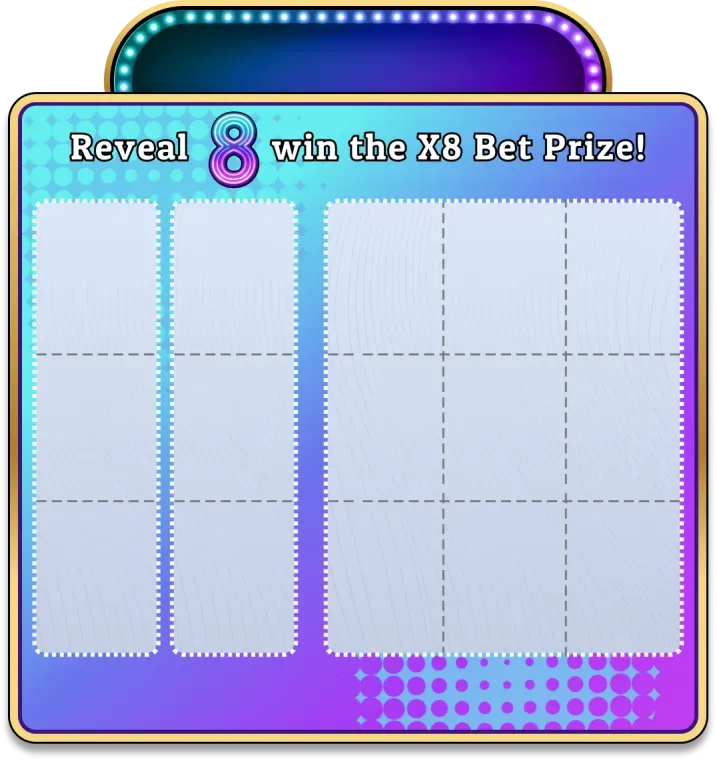
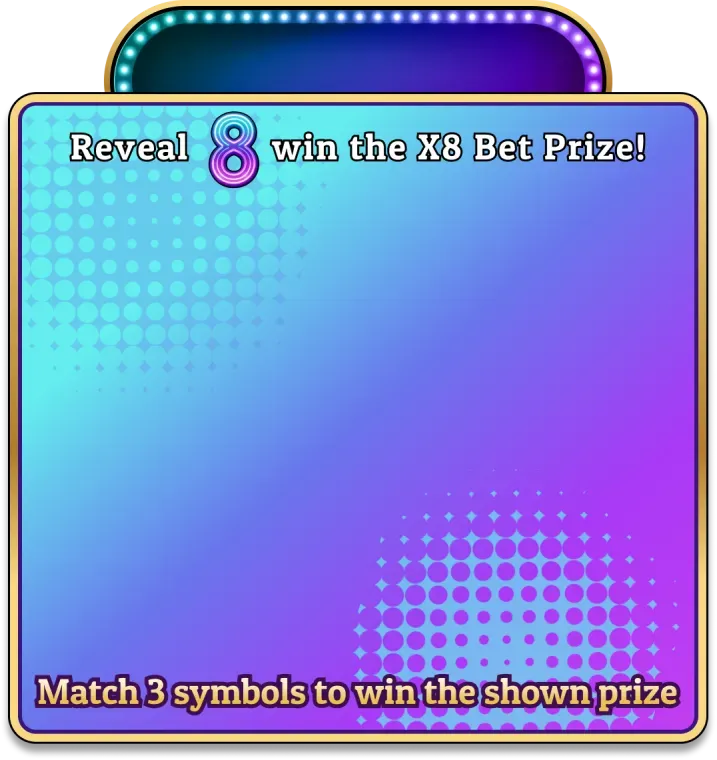
1

diff --git a/scratch144_aaa_dmwodkpw/lib/scratch144_aaa_view_djwijofw/scratch144_play_view_fkoekfeop/scratch144_lucky_play_view_fjwifjoejf.dart b/scratch144_aaa_dmwodkpw/lib/scratch144_aaa_view_djwijofw/scratch144_play_view_fkoekfeop/scratch144_lucky_play_view_fjwifjoejf.dart
@@ -28,10 +28,16 @@ class Scratch144LuckyPlayViewFjwifjoejf extends Scratch144StatefulWidgetJmndjv{
 class _Scratch144LuckyPlayViewFjwifjoejfState extends Scratch144Statemubfka<Scratch144LuckyPlayViewFjwifjoejf>{
   final Scratch144CardTypeEnumDwidjow type=Scratch144CardTypeEnumDwidjow.luckyRich;
   final Scratch144ScratchCardControllerPwsltd controller = Scratch144ScratchCardControllerPwsltd();
+  final Random _scratch144_random_qhvpxt = Random();
   var showResult=false;
   List<Scratch144AaaRewardBeanFeifjoe> rewardList1=[];
   List<Scratch144AaaRewardBeanFeifjoe> rewardList2=[];
   List<Scratch144AaaRewardBeanFeifjoe> rewardList3=[];
+  List<Scratch144AaaRewardBeanFeifjoe> get rewardList => <Scratch144AaaRewardBeanFeifjoe>[
+    ...rewardList1,
+    ...rewardList2,
+    ...rewardList3,
+  ];
   final String _lucky8="lucky12";
   final List<String> _iconList=["lucky4","lucky5","lucky6","lucky7","lucky8","lucky9","lucky10","lucky11",];
   final ValueNotifier<Offset> scratch144_aaa_card_offset_hqzpmr = ValueNotifier<Offset>(Offset.zero);
@@ -51,12 +57,16 @@ class _Scratch144LuckyPlayViewFjwifjoejfState extends Scratch144Statemubfka<Scra
       alignment: Alignment.topCenter,
       children: [
         Scratch144LocalImagesWidgetGohzrl(scratch144Nametrrwib: "lucky1", scratch144Widthcpygxw: null, scratch144Heightvnnnnq: 110.h,boxFit: BoxFit.fitHeight,),
-        _playWidget(),
+        _playWidget(context),
+        Container(
+          margin: EdgeInsets.only(top: 110.h),
+          child: Scratch144AaaWinUpViewFjweiofjoe(type: type),
+        ),
       ],
     ),
   );
 
-  _playWidget()=>Container(
+  _playWidget(BuildContext context)=>Container(
     margin: EdgeInsets.only(top: 100.h),
     child: ValueListenableBuilder<Duration>(
       valueListenable: scratch144_aaa_card_anim_duration_mpwzqy,
@@ -76,7 +86,7 @@ class _Scratch144LuckyPlayViewFjwifjoejfState extends Scratch144Statemubfka<Scra
               child: Scratch144ScratchCardWidgetPwsltd(
                 scratch144_width_qwntvi: double.infinity,
                 scratch144_height_eujpfh: 358.h,
-                scratch144_bottom_widget_fhpgka: _bottomWidget(),
+                scratch144_bottom_widget_fhpgka: _bottomWidget(context),
                 scratch144_cover_image_vlywop: AssetImage("assets/scratch144bsbzmv/lucky2.webp",),
                 scratch144_cover_fit_uqvmxp: BoxFit.fill,
                 scratch144_controller_ptjlwm: controller,
@@ -95,26 +105,79 @@ class _Scratch144LuckyPlayViewFjwifjoejfState extends Scratch144Statemubfka<Scra
     ),
   );
 
-  _bottomWidget()=>SizedBox(
+  _bottomWidget(BuildContext context)=>SizedBox(
     width: double.infinity,
     height: 358.h,
     child: Stack(
-      alignment: Alignment.topCenter,
+      alignment: Alignment.bottomCenter,
       children: [
         Scratch144LocalImagesWidgetGohzrl(scratch144Nametrrwib: "lucky3", scratch144Widthcpygxw: double.infinity, scratch144Heightvnnnnq: double.infinity),
         Container(
           width: double.infinity,
-          height: 201.h,
-          margin: EdgeInsets.only(left: 21.w,right: 21.w,top: 20.h),
-          child: MasonryGridView.count(
-            padding: const EdgeInsets.all(0),
-            itemCount: rewardList.length,
-            shrinkWrap: true,
-            crossAxisCount: 4,
-            mainAxisSpacing: 0,
-            crossAxisSpacing: 0,
-            physics: NeverScrollableScrollPhysics(),
-            itemBuilder: (context,index)=>_itemItemWidget(rewardList[index]),
+          height: 215.h,
+          margin: EdgeInsets.only(left: 16.w,right: 16.w,bottom: 50.h),
+          child: Row(
+            children: [
+              SizedBox(
+                width: 60.w,
+                height: double.infinity,
+                child: Stack(
+                  children: [
+                    Scratch144LocalImagesWidgetGohzrl(scratch144Nametrrwib: "lucky13", scratch144Widthcpygxw: double.infinity, scratch144Heightvnnnnq: double.infinity),
+                    MediaQuery.removePadding(
+                      context: context,
+                      removeTop: true,
+                      removeBottom: true,
+                      child: ListView.builder(
+                        shrinkWrap: true,
+                        itemCount: rewardList1.length,
+                        physics: NeverScrollableScrollPhysics(),
+                        itemBuilder: (context,index)=>_itemItemWidget(rewardList1[index]),
+                      ),
+                    ),
+                  ],
+                ),
+              ),
+              SizedBox(width: 6.w,),
+              SizedBox(
+                width: 60.w,
+                height: double.infinity,
+                child: Stack(
+                  children: [
+                    Scratch144LocalImagesWidgetGohzrl(scratch144Nametrrwib: "lucky14", scratch144Widthcpygxw: double.infinity, scratch144Heightvnnnnq: double.infinity),
+                    MediaQuery.removePadding(
+                      context: context,
+                      removeTop: true,
+                      removeBottom: true,
+                      child: ListView.builder(
+                        shrinkWrap: true,
+                        itemCount: rewardList2.length,
+                        physics: NeverScrollableScrollPhysics(),
+                        itemBuilder: (context,index)=>_itemItemWidget(rewardList2[index]),
+                      ),
+                    ),
+                  ],
+                ),
+              ),
+              SizedBox(width: 14.w,),
+              Expanded(
+                child: Stack(
+                  children: [
+                    Scratch144LocalImagesWidgetGohzrl(scratch144Nametrrwib: "lucky15", scratch144Widthcpygxw: double.infinity, scratch144Heightvnnnnq: double.infinity),
+                    MasonryGridView.count(
+                      padding: const EdgeInsets.all(0),
+                      itemCount: rewardList3.length,
+                      shrinkWrap: true,
+                      crossAxisCount: 3,
+                      mainAxisSpacing: 0,
+                      crossAxisSpacing: 0,
+                      physics: NeverScrollableScrollPhysics(),
+                      itemBuilder: (context,index)=>_itemItemWidget(rewardList3[index]),
+                    ),
+                  ],
+                ),
+              ),
+            ],
           ),
         ),
       ],
@@ -125,7 +188,7 @@ class _Scratch144LuckyPlayViewFjwifjoejfState extends Scratch144Statemubfka<Scra
     if(bean.win){
       return SizedBox(
         width: double.infinity,
-        height: 67.h,
+        height: 71.h,
         child: Stack(
           children: [
             Align(
@@ -144,26 +207,30 @@ class _Scratch144LuckyPlayViewFjwifjoejfState extends Scratch144Statemubfka<Scra
               child: Stack(
                 children: [
                   Align(
-                    alignment: Alignment.topCenter,
-                    child: Container(
-                      margin: EdgeInsets.only(top: 10.h),
-                      child: Scratch144LocalImagesWidgetGohzrl(
-                        scratch144Nametrrwib: bean.win7Type==1?"hot774":"hot775",
-                        scratch144Widthcpygxw: null,
-                        scratch144Heightvnnnnq: 28.h,
-                        boxFit: BoxFit.fitHeight,
-                      ),
+                    alignment: Alignment.center,
+                    child: Scratch144LocalImagesWidgetGohzrl(
+                      scratch144Nametrrwib: bean.winLuckyType==2?_lucky8:bean.icon,
+                      scratch144Widthcpygxw: null,
+                      scratch144Heightvnnnnq: 44.h,
+                      boxFit: BoxFit.fitHeight,
                     ),
                   ),
                   Align(
                     alignment: Alignment.bottomCenter,
-                    child: Scratch144TextWidgetPcbuin(
-                      scratch144Textannbiq: "${bean.rewardNum}",
-                      scratch144Sizefbwmhh: 22.sp,
-                      scratch144TextColorrzkydb: Scratch144nwekyj.colorFCDE39,
-                      scratch144FontWeightvzszvv: FontWeight.bold,
+                    child: Scratch144GradientTextFjeofjoe(
+                      textContent: "${bean.rewardNum}",
+                      textSize: 20.sp,
+                      gradient: LinearGradient(
+                        begin: Alignment.topCenter,
+                        end: Alignment.bottomCenter,
+                        colors: [
+                          Scratch144nwekyj.colorFFDA6E,
+                          Scratch144nwekyj.colorFFF5AC,
+                          Scratch144nwekyj.colorFFDA6E,
+                        ],
+                      ),
+                      outlineColor: Scratch144nwekyj.color000000,
                       scratch144fontFamilydwedowkd: Scratch144FontFamilydwedowkd.patuaone,
-                      scratch144OutLineColorbzjwzh: Scratch144nwekyj.color000000,
                     ),
                   ),
                 ],
@@ -175,16 +242,15 @@ class _Scratch144LuckyPlayViewFjwifjoejfState extends Scratch144Statemubfka<Scra
     }
     return SizedBox(
       width: double.infinity,
-      height: 67.h,
+      height: 71.h,
       child: Stack(
         alignment: Alignment.center,
         children: [
-          Scratch144TextWidgetPcbuin(
-            scratch144Textannbiq: bean.icon,
-            scratch144Sizefbwmhh: 36.sp,
-            scratch144TextColorrzkydb: Scratch144nwekyj.colorFFFFFF,
-            scratch144OutLineColorbzjwzh: Scratch144nwekyj.color000000,
-            scratch144fontFamilydwedowkd: Scratch144FontFamilydwedowkd.patuaone,
+          Scratch144LocalImagesWidgetGohzrl(
+            scratch144Nametrrwib: bean.icon,
+            scratch144Widthcpygxw: null,
+            scratch144Heightvnnnnq: 44.h,
+            boxFit: BoxFit.fitHeight,
           ),
           Visibility(
             visible: showResult,
@@ -205,6 +271,96 @@ class _Scratch144LuckyPlayViewFjwifjoejfState extends Scratch144Statemubfka<Scra
     rewardList3.clear();
     showResult=false;
 
+    final bool scratch144_has_8_win_hqvptr =
+        Scratch144AaaGameConfigUtilsFjeofjoe.instance.luckyHas8Win();
+    final bool scratch144_has_3_icon_win_vqpkzt =
+        Scratch144AaaGameConfigUtilsFjeofjoe.instance.luckyHas3IconWin();
+    final List<Scratch144AaaRewardBeanFeifjoe?> scratch144_slots_kqvptw =
+        List<Scratch144AaaRewardBeanFeifjoe?>.filled(15, null);
+
+    int scratch144_pick_free_slot_gqvptw() {
+      final List<int> scratch144_free_indexes_hqvptx = <int>[];
+      for (int scratch144_index_snxlrd = 0;
+          scratch144_index_snxlrd < scratch144_slots_kqvptw.length;
+          scratch144_index_snxlrd++) {
+        if (scratch144_slots_kqvptw[scratch144_index_snxlrd] == null) {
+          scratch144_free_indexes_hqvptx.add(scratch144_index_snxlrd);
+        }
+      }
+      return scratch144_free_indexes_hqvptx[_scratch144_random_qhvpxt.nextInt(scratch144_free_indexes_hqvptx.length)];
+    }
+
+    if (scratch144_has_8_win_hqvptr) {
+      final int scratch144_index_hqvptx = scratch144_pick_free_slot_gqvptw();
+      scratch144_slots_kqvptw[scratch144_index_hqvptx] =
+          Scratch144AaaRewardBeanFeifjoe(
+            icon: _lucky8,
+            win: true,
+            rewardNum: Scratch144AaaGameConfigUtilsFjeofjoe.instance.getRewardNum(type),
+            winLuckyType: 2,
+          );
+    }
+
+    String? scratch144_win_icon_hqvptx;
+    if (scratch144_has_3_icon_win_vqpkzt) {
+      scratch144_win_icon_hqvptx = _iconList.random();
+      for (int scratch144_count_xqvptw = 0;
+          scratch144_count_xqvptw < 3;
+          scratch144_count_xqvptw++) {
+        final int scratch144_index_hqvptx = scratch144_pick_free_slot_gqvptw();
+        scratch144_slots_kqvptw[scratch144_index_hqvptx] =
+            Scratch144AaaRewardBeanFeifjoe(
+              icon: scratch144_win_icon_hqvptx!,
+              win: true,
+              rewardNum: Scratch144AaaGameConfigUtilsFjeofjoe.instance.getRewardNum(type),
+              winLuckyType: 1,
+            );
+      }
+    }
+
+    final List<String> scratch144_fill_icons_qhvpxt = scratch144_has_3_icon_win_vqpkzt
+        ? _iconList
+            .where((String scratch144_icon_hqvptx) =>
+                scratch144_icon_hqvptx != scratch144_win_icon_hqvptx)
+            .toList()
+        : List<String>.from(_iconList);
+    final Map<String, int> scratch144_fill_count_jqvptx =
+        <String, int>{for (final String icon in scratch144_fill_icons_qhvpxt) icon: 0};
+
+    for (int scratch144_index_snxlrd = 0;
+        scratch144_index_snxlrd < scratch144_slots_kqvptw.length;
+        scratch144_index_snxlrd++) {
+      if (scratch144_slots_kqvptw[scratch144_index_snxlrd] != null) {
+        continue;
+      }
+      final List<String> scratch144_candidates_qhvpxt = scratch144_fill_icons_qhvpxt
+          .where((String icon) => (scratch144_fill_count_jqvptx[icon] ?? 0) < 2)
+          .toList();
+      final String scratch144_icon_hqvptx =
+          scratch144_candidates_qhvpxt.isNotEmpty
+              ? scratch144_candidates_qhvpxt.random()
+              : scratch144_fill_icons_qhvpxt.random();
+      scratch144_fill_count_jqvptx[scratch144_icon_hqvptx] =
+          (scratch144_fill_count_jqvptx[scratch144_icon_hqvptx] ?? 0) + 1;
+      scratch144_slots_kqvptw[scratch144_index_snxlrd] =
+          Scratch144AaaRewardBeanFeifjoe(
+            icon: scratch144_icon_hqvptx,
+            win: false,
+            rewardNum: Scratch144AaaGameConfigUtilsFjeofjoe.instance.getRewardNum(type),
+            winLuckyType: 0,
+          );
+    }
+
+    rewardList1 = scratch144_slots_kqvptw
+        .sublist(0, 3)
+        .cast<Scratch144AaaRewardBeanFeifjoe>();
+    rewardList2 = scratch144_slots_kqvptw
+        .sublist(3, 6)
+        .cast<Scratch144AaaRewardBeanFeifjoe>();
+    rewardList3 = scratch144_slots_kqvptw
+        .sublist(6, 15)
+        .cast<Scratch144AaaRewardBeanFeifjoe>();
+
     setState(() {});
   }
 
@@ -218,13 +374,13 @@ class _Scratch144LuckyPlayViewFjwifjoejfState extends Scratch144Statemubfka<Scra
       widget.playListener.playResult(type, 0);
     }else{
       var reward=0;
-      var win7List = rewardList.where((value)=>value.win&&value.win7Type==1).toList();
-      if(win7List.isNotEmpty){
-        reward+=win7List.fold(0, (sum, item) => sum + item.rewardNum);
+      var win3List = rewardList.where((value)=>value.win&&value.winLuckyType==1).toList();
+      if(win3List.isNotEmpty){
+        reward+=win3List.fold(0, (sum, item) => sum + item.rewardNum);
       }
-      var win77List = rewardList.where((value)=>value.win&&value.win7Type==2).toList();
-      if(win77List.isNotEmpty){
-        reward+=(win7List.fold(0, (sum, item) => sum + item.rewardNum))*2;
+      var win8List = rewardList.where((value)=>value.win&&value.winLuckyType==2).toList();
+      if(win8List.isNotEmpty){
+        reward+=(win8List.fold(0, (sum, item) => sum + item.rewardNum))*8;
       }
       widget.playListener.playResult(type, reward);
     }

diff --git a/scratch144_aaa_dmwodkpw/lib/scratch144_aaa_utils_dnwkdowmd/scratch144_aaa_game_config_utils_fjeofjoe.dart b/scratch144_aaa_dmwodkpw/lib/scratch144_aaa_utils_dnwkdowmd/scratch144_aaa_game_config_utils_fjeofjoe.dart
@@ -146,23 +146,9 @@ class Scratch144AaaGameConfigUtilsFjeofjoe{
     return 0;
   }
 
-  //return 0没中奖 1是3个相同的  2是刮中8
-  int luckyNum(){
-    final Card8rich? scratch144_card8rich_nqvptx = _gameConfigBean?.card8rich;
-    final int scratch144_point_3match_hqzvpk =
-        (scratch144_card8rich_nqvptx?.point3match ?? 80).clamp(0, 100);
-    final int scratch144_point_8bet_wqzvpt =
-        (scratch144_card8rich_nqvptx?.point8bet ?? 20).clamp(0, 100);
-    final int scratch144_index_xnypcq = _scratch144_random_uwpxte.nextInt(100);
-    if (scratch144_index_xnypcq < scratch144_point_3match_hqzvpk) {
-      return 1;
-    }
-    if (scratch144_index_xnypcq <
-        scratch144_point_3match_hqzvpk + scratch144_point_8bet_wqzvpt) {
-      return 2;
-    }
-    return 0;
-  }
+  bool luckyHas8Win()=>Random().nextInt(100)<(_gameConfigBean?.card8rich?.point8bet??20);
+
+  bool luckyHas3IconWin()=>Random().nextInt(100)<(_gameConfigBean?.card8rich?.point3match??20);
 
   bool isBigWin(int reward)=>reward>=3000;
 }
